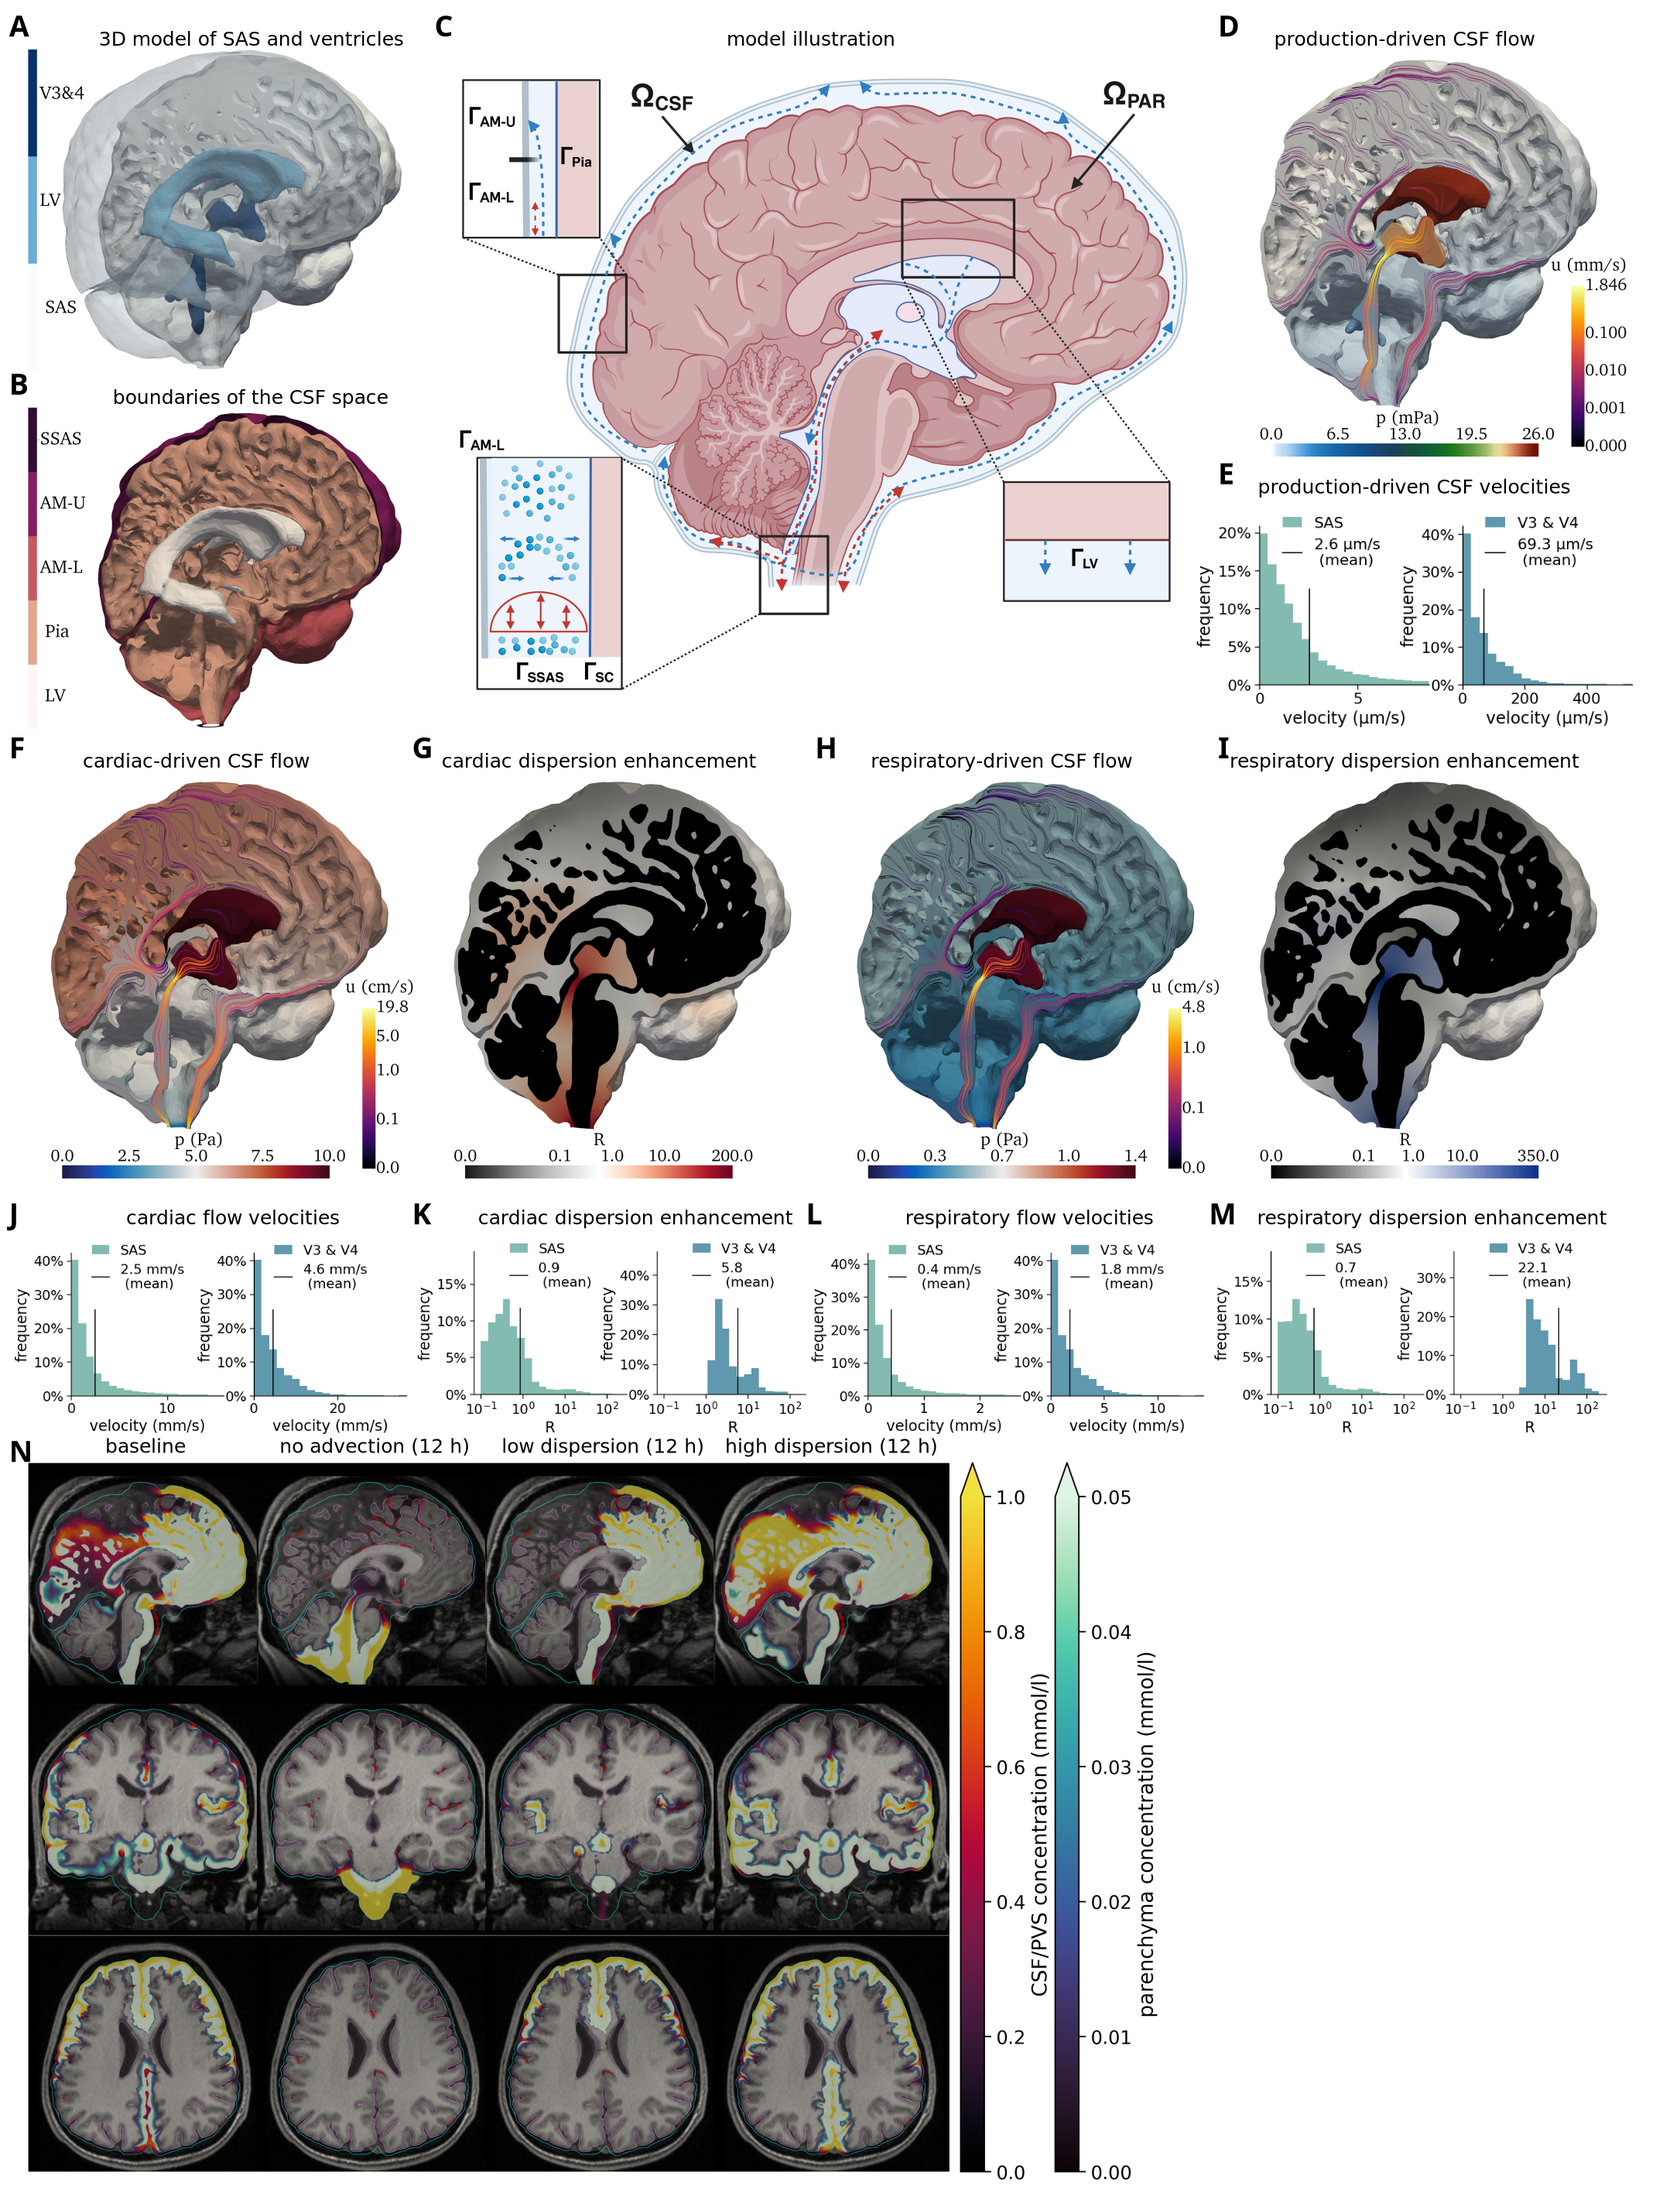
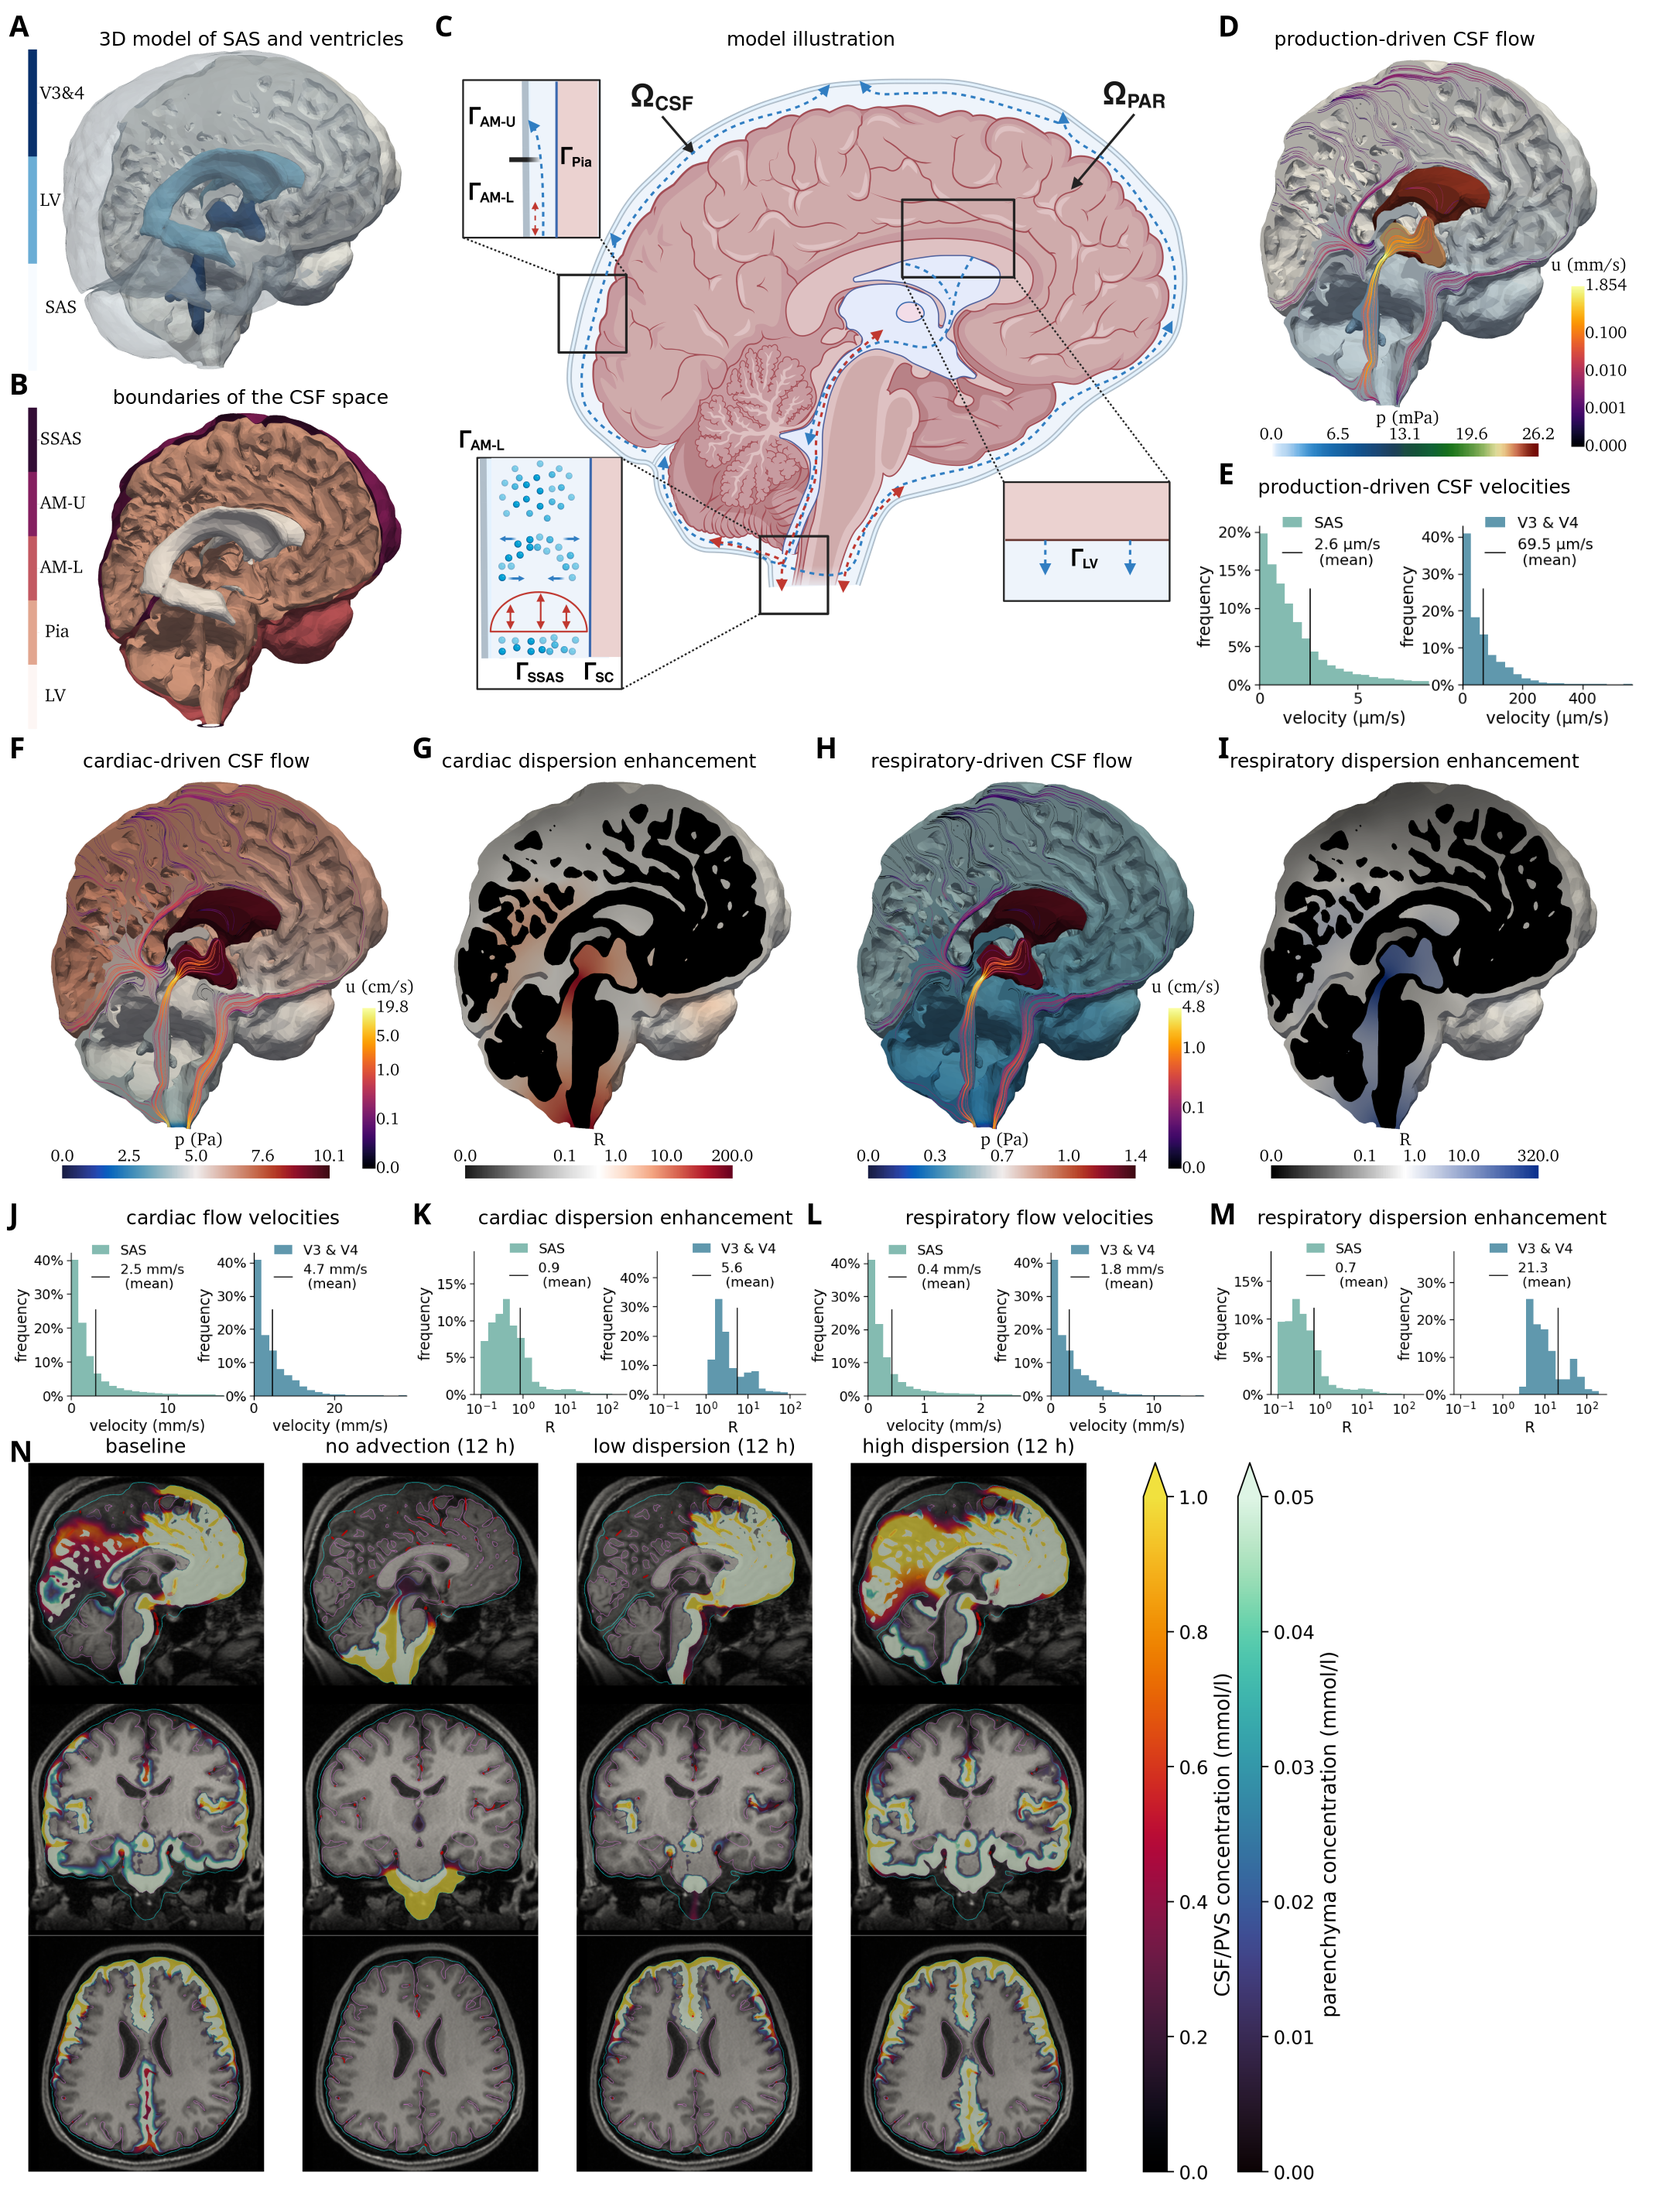
update figure 2

diff --git a/scripts/figure2.py b/scripts/figure2.py
@@ -16,7 +16,7 @@ y2 = 13.4
 y3 = 16
 w = 2.65
 hn = 8.0
-compwidth = 2.5
+compwidth = 3.0
 hpx = 800
 abfac = 0.9
 
